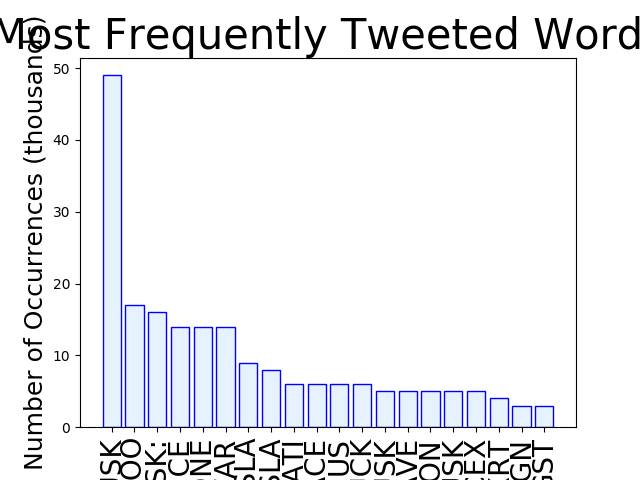
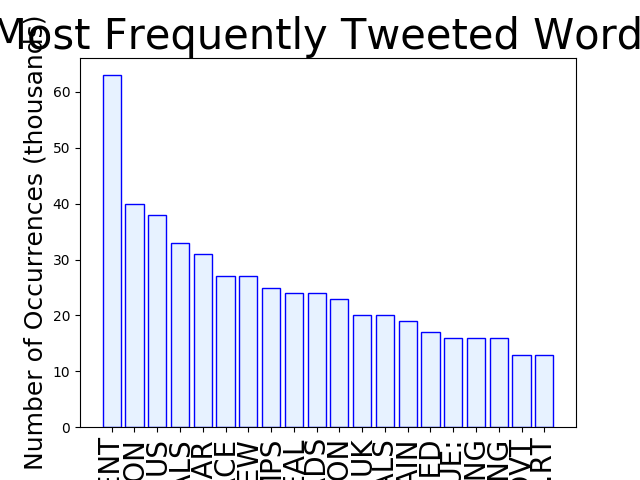
more

diff --git a/README.md b/README.md
@@ -1,5 +1,5 @@
 # MURCHIE85 TWITTER PROCESSING 
-&#x1F34E; **TOPIC = "elonmusk"**
+&#x1F34E; **TOPIC = "Trident"**
 
 ## AUTOMATED RESEARCH SUMMARY
 
@@ -15,18 +15,18 @@
 
 |                **Sample-Tweets**        |
 | :-------------: |
-| <div class="alert alert-block alert-warning">@SamTalksTesla @SpaceX @elonmusk Yes yes yes</div> <div class="alert alert-block alert-success">RT @justtradin: @ReutersBiz @elonmusk cares about his massive billion pay package while China care sales fall 92% in feb n r decimated in U…</div> <div class="alert alert-block alert-info">@elonmusk I’m still wondering how you’re doing :((</div> |
-The most popular user is: **AnyeevP**
-<div class="alert alert-block alert-danger"> RT @elonmusk: Science has gone too far https://t.co/Ky65Q3s3JX</div>
+| <div class="alert alert-block alert-warning">RT @GreenPartyMolly: Pentagon reveals deal with Britain to replace Trident before MPs are consulted or even informedThis is how it feels…</div> <div class="alert alert-block alert-success">RT @NatashaJahnse: When was this agreed to?We really are America's lapdog now. So much for being in control!🙄#BrexitRealityPentagon rev…</div> <div class="alert alert-block alert-info">RT @GreenPartyMolly: Pentagon reveals deal with Britain to replace Trident before MPs are consulted or even informedThis is how it feels…</div> |
+The most popular user is: **TinaWight2**
+<div class="alert alert-block alert-danger"> RT @Mandoline_Blue: Pentagon officials are saying that Trident is to be replaced with a new generation of nuclear warheads using US technol…</div>
 
 ## RELATED METRICS<br>
 | Metric | Value |
 | ------------- | ------------- |
-| #1 Most tweeted to  | **elonmusk** |
-| #2 Most tweeted to  | **Tesla** |
-| #3 Most tweeted to  | **Teslarati** |
-| NewProfiles (less than 10 days) | 2.0%  |
-| Tweeters with < 10 followers  | 21.0%|
+| #1 Most tweeted to  | **Mandoline_Blue** |
+| #2 Most tweeted to  | **ShoebridgeC** |
+| #3 Most tweeted to  | **GreenPartyMolly** |
+| NewProfiles (less than 10 days) | 0.0%  |
+| Tweeters with < 10 followers  | 3.0%|
 | Tweeters with > 1000000 followers  | 0.0%  |
 
 <br>
@@ -34,25 +34,33 @@ The most popular user is: **AnyeevP**
 <br>
 | Popularity Rank  | Term |
 | ------------- | ------------- |
-| first  | **@ELONMUSK**  |
-| second  | **TOO**  |
-| third  | **@ELONMUSK:** |
-| fourth  | **SCIENCE**  |
-| fifth  | **GONE**  |
+| first  | **TRIDENT**  |
+| second  | **PENTAGON**  |
+| third  | **US** |
+| fourth  | **REVEALS**  |
+| fifth  | **NUCLEAR**  |
 
 
 ## Twitter Bio Analysis![image](BIO.png)
 ### SENTIMENT ANALYSIS
 ![image](sentiment.png)
-VIEWS WERE : **SUBJECTIVE**  (40.0%) & **NEGATIVELY-SUBJECTIVE** (0.0%) **OBJECTIVE** (60.0%)
+VIEWS WERE : **SUBJECTIVE**  (33.33%) & **NEGATIVELY-SUBJECTIVE** (20.0%) **OBJECTIVE** (46.67%)
 
 ### TWEET SAMPLE 
 Random value picked from array: 
-<div class="alert alert-block alert-info">@SamTalksTesla @SpaceX @elonmusk Yes yes yes</div>
-### MOST RETWEETED
-The most retweeted user is: **AnyeevP**
-<div class="alert alert-block alert-danger"> RT @elonmusk: Science has gone too far https://t.co/Ky65Q3s3JX</div>
+
+<div class="alert alert-block alert-info">RT @GreenPartyMolly: Pentagon reveals deal with Britain to replace Trident before MPs are consulted or even informed
+
+This is how it feels…</div>
+
+### MOST RETWEETED 
+
+The most retweeted user is: **TinaWight2**
+
+<div class="alert alert-block alert-danger"> RT @Mandoline_Blue: Pentagon officials are saying that Trident is to be replaced with a new generation of nuclear warheads using US technol…</div>
+
 ### CONCLUSION & EXTERNAL ANALYSIS
+
 *This is my [Adam McMurchie`s] opinion on the data from the tweets, it serves as no objective truth.Since the tweets themselves are a mixture of fact & opinion.<br>
 Authors analytical summary on request.
 **RECOMMENDATIONS** WILL BE UPDATED IN NEXT  24 HOURS <br>
